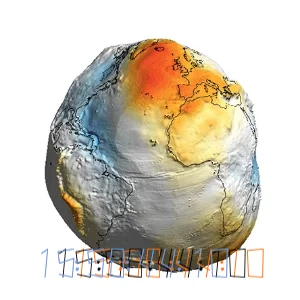
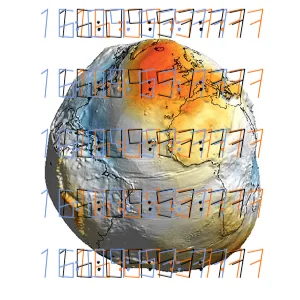
m

diff --git a/src/pages/2026/26-08/26-08-05/Clock.tsx b/src/pages/2026/26-08/26-08-05/Clock.tsx
@@ -57,7 +57,7 @@ const styles: Record<string, React.CSSProperties> = {
   },
   clockContainer: {
     position: 'absolute',
-    top: '100vh',
+    top: 0, // Changed from '100vh' to 0 so clocks pre-fill the viewport immediately
     left: '50%',
     width: '100%',
     zIndex: 2,
@@ -73,17 +73,11 @@ const styles: Record<string, React.CSSProperties> = {
     alignItems: 'center',
     justifyContent: 'center',
     fontFamily: "'ClockFont_26_08_05', sans-serif",
-    
-    /* 
-      1. min(14vw, 13vh) caps font size so it never exceeds 13vh vertically 
-         (leaving ~7vh gap between 20vh slots) and never clips horizontally.
-      2. line-height: 1 ensures no extra vertical padding is added by fonts.
-    */
     fontSize: 'min(20vw, 13vh)',
     lineHeight: 1,
     whiteSpace: 'nowrap',
     textShadow: '18px 0px 0px #f97316, -18px 0px 0px #7799E1',
-    height: `${SPACING_VH}vh`, // Fixes bounding box to slot height
+    height: `${SPACING_VH}vh`,
   },
   digitBox: {
     display: 'inline-block',
